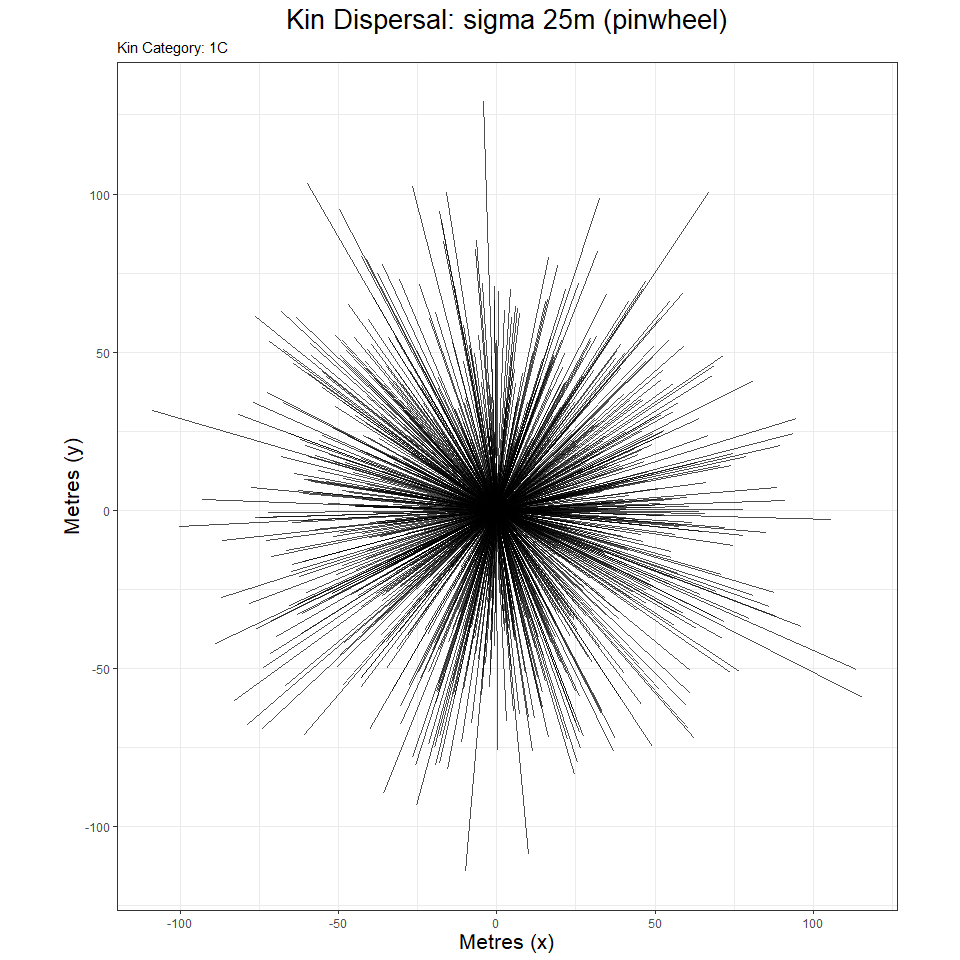
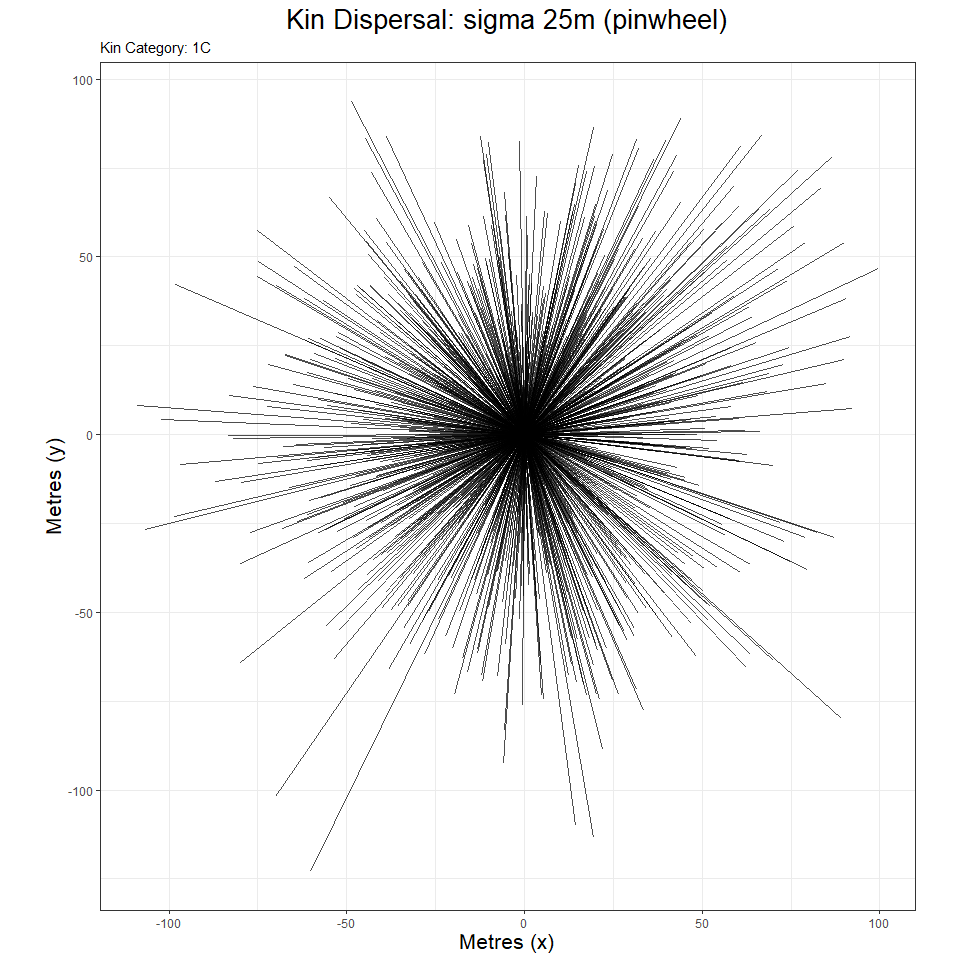
Updated app tutorial and documentation

diff --git a/README.md b/README.md
@@ -3,7 +3,7 @@
 
 # kindisperse
 
-v0.8.0 <!-- badges: start --> <!-- badges: end -->
+v0.8.2 <!-- badges: start --> <!-- badges: end -->
 
 The goal of kindisperse is to simulate and estimate close-kin dispersal
 kernels.
@@ -153,7 +153,7 @@ Once installed, load the package as follows:
 
 ``` r
 library(kindisperse)
-#> kindisperse 0.7.7
+#> kindisperse 0.8.2
 ```
 
 ## Simulations and Sampling
@@ -242,13 +242,13 @@ simulate_kindist_simple(nsims = 5, sigma = 100, method = "Gaussian", kinship = "
 #> 
 #> tab
 #> # A tibble: 5 x 8
-#>   id1   id2   kinship distance    x1    y1    x2     y2
-#>   <chr> <chr> <chr>      <dbl> <dbl> <dbl> <dbl>  <dbl>
-#> 1 1a    1b    PO         167.   97.7 91.5  -17.4 -29.2 
-#> 2 2a    2b    PO         215.   67.6 12.4  283.   -2.97
-#> 3 3a    3b    PO         174.   27.8 75.6  201.   61.8 
-#> 4 4a    4b    PO          60.9  40.0  8.28  97.9  27.4 
-#> 5 5a    5b    PO         187.   98.3 62.4   67.6 247.  
+#>   id1   id2   kinship distance    x1    y1     x2      y2
+#>   <chr> <chr> <chr>      <dbl> <dbl> <dbl>  <dbl>   <dbl>
+#> 1 1a    1b    PO          62.4  15.0  32.0   64.8   -5.62
+#> 2 2a    2b    PO         184.   69.9  23.9  145.  -144.  
+#> 3 3a    3b    PO         128.   63.4  92.8  -29.9    5.46
+#> 4 4a    4b    PO         213.   26.3  17.7 -186.    37.7 
+#> 5 5a    5b    PO         137.   76.9  68.6  214.    66.0 
 #> -----------------------------------
 ```
 
@@ -294,13 +294,13 @@ simulate_kindist_composite(nsims = 5, initsigma = 50, breedsigma = 30, gravsigma
 #> 
 #> tab
 #> # A tibble: 5 x 8
-#>   id1   id2   kinship distance    x1     y1     x2    y2
-#>   <chr> <chr> <chr>      <dbl> <dbl>  <dbl>  <dbl> <dbl>
-#> 1 1a    1b    H1C         131.  73.3  131.   -24.2  43.8
-#> 2 2a    2b    H1C         552. 224.   -56.5 -181.  319. 
-#> 3 3a    3b    H1C         407. 276.   232.  -128.  180. 
-#> 4 4a    4b    H1C         167. 211.    40.7  104.  -86.3
-#> 5 5a    5b    H1C         240. 150.  -151.   -84.0 -98.4
+#>   id1   id2   kinship distance     x1     y1     x2     y2
+#>   <chr> <chr> <chr>      <dbl>  <dbl>  <dbl>  <dbl>  <dbl>
+#> 1 1a    1b    H1C        281.  198.    -94.2  -80.7  -63.4
+#> 2 2a    2b    H1C         75.6 -70.6  -140.  -137.  -103. 
+#> 3 3a    3b    H1C         97.4   5.46   47.3   66.9  -28.3
+#> 4 4a    4b    H1C         57.4  81.3   129.    28.6  151. 
+#> 5 5a    5b    H1C        270.  199.    132.   -52.2   31.9
 #> -----------------------------------
 ```
 
@@ -342,18 +342,18 @@ sample_kindist(compsim, upper = 1000, lower = 200, spacing = 50, n = 25)
 #> 
 #> tab
 #> # A tibble: 25 x 8
-#>    id1    id2    kinship distance     x1      y1     x2     y2
-#>    <chr>  <chr>  <chr>      <dbl>  <dbl>   <dbl>  <dbl>  <dbl>
-#>  1 60421a 60421b H2C          475 -121.   -39.8   370.  -118. 
-#>  2 98769a 98769b H2C          275  371.   -66.7   116.    71.9
-#>  3 84467a 84467b H2C          575 -225.   155.    240.  -166. 
-#>  4 4268a  4268b  H2C          475   53.2  -30.1   -11.0  424. 
-#>  5 91917a 91917b H2C          425  228.  -247.   -109.    16.2
-#>  6 92904a 92904b H2C          925  163.  -499.   -239.   331. 
-#>  7 82235a 82235b H2C          325 -335.  -126.    -33.2  -15.9
-#>  8 4913a  4913b  H2C          525  425.     3.96  -31.8  210. 
-#>  9 22569a 22569b H2C          575  -28.0  -19.5   483.   261. 
-#> 10 24818a 24818b H2C          225   31.6  -49.4   -79.6 -239. 
+#>    id1    id2    kinship distance    x1     y1     x2     y2
+#>    <chr>  <chr>  <chr>      <dbl> <dbl>  <dbl>  <dbl>  <dbl>
+#>  1 12222a 12222b H2C          275 132.   168.   278.   -63.6
+#>  2 22844a 22844b H2C          725  77.7 -293.  -147.   411. 
+#>  3 64939a 64939b H2C          325 285.   -44.7   81.6  204. 
+#>  4 86823a 86823b H2C          525 310.   201.    33.3 -244. 
+#>  5 94736a 94736b H2C          475  37.3  -77.6  226.   365. 
+#>  6 25528a 25528b H2C          325 265.   -12.8  349.   289. 
+#>  7 42812a 42812b H2C          225 -29.1 -139.    26.9   98.3
+#>  8 71730a 71730b H2C          825 337.   374.  -500.   292. 
+#>  9 4369a  4369b  H2C          675 381.   322.   -91.9 -134. 
+#> 10 40722a 40722b H2C          275 -50.5   41.6 -229.   251. 
 #> # ... with 15 more rows
 #> -----------------------------------
 ```
@@ -448,13 +448,13 @@ of three draws from the PO distribution, and thus would take
 ``` r
 paroff <- simulate_kindist_simple(nsims = 1000, sigma = 75, kinship = "PO")
 axials(paroff)
-#> [1] 73.55289
+#> [1] 76.03686
 ```
 
 ``` r
 fullsibs <- simulate_kindist_composite(nsims = 10000, ovisigma = 25, kinship = "FS")
 axials(fullsibs, composite = 2)
-#> [1] 24.94379
+#> [1] 24.88813
 ```
 
 Various auxillary functions exist to further manipulate axial distances
@@ -537,7 +537,7 @@ fullcous <- simulate_kindist_composite(nsims = 75, initsigma = init, breedsigma 
 
 axpermute_standard(fullcous, fullsibs)
 #>      2.5%       50%     97.5% 
-#>  84.85302  94.70991 104.30832
+#>  89.93076 100.27790 111.04962
 ```
 
 As we can see, the C.I. neatly brackets the actual axial value, though
@@ -566,18 +566,18 @@ cousins
 #> 
 #> tab
 #> # A tibble: 150 x 9
-#>    id1   id2   kinship distance    x1     y1     x2     y2 lifestage
-#>    <chr> <chr> <chr>      <dbl> <dbl>  <dbl>  <dbl>  <dbl> <chr>    
-#>  1 1a    1b    UN         148.  -26.9   70.3  -4.32  216.  larva    
-#>  2 2a    2b    UN         249.  184.   112.  -64.3   110.  larva    
-#>  3 3a    3b    UN         277.  152.   119.  -14.1  -104.  larva    
-#>  4 4a    4b    UN         193.   90.4   73.0 -99.5    40.4 larva    
-#>  5 5a    5b    UN         149.   87.8 -144.  159.    -13.3 larva    
-#>  6 6a    6b    UN         238.  -70.2  -19.4 162.    -72.9 larva    
-#>  7 7a    7b    UN         142.  126.   -50.8 -11.1   -16.2 larva    
-#>  8 8a    8b    UN         149.   45.3   75.9  45.8   -73.4 larva    
-#>  9 9a    9b    UN          56.3 180.   137.  130.    165.  larva    
-#> 10 10a   10b   UN         332.   33.7  238.    8.65  -92.1 larva    
+#>    id1   id2   kinship distance     x1     y1     x2     y2 lifestage
+#>    <chr> <chr> <chr>      <dbl>  <dbl>  <dbl>  <dbl>  <dbl> <chr>    
+#>  1 1a    1b    UN         349.   203.   -51.2 -99.6   124.  larva    
+#>  2 2a    2b    UN         139.   101.    13.3  -3.77  104.  larva    
+#>  3 3a    3b    UN          91.7   29.2  132.  -62.3   138.  larva    
+#>  4 4a    4b    UN         151.   -14.6   81.8 109.    169.  larva    
+#>  5 5a    5b    UN         233.  -140.    94.8  92.5    98.9 larva    
+#>  6 6a    6b    UN         179.   125.   151.  129.    -27.5 larva    
+#>  7 7a    7b    UN         130.    11.5  -25.8 -29.1    97.9 larva    
+#>  8 8a    8b    UN         269.    93.6 -121.  129.    146.  larva    
+#>  9 9a    9b    UN         258.   101.   -91.3 256.    115.  larva    
+#> 10 10a   10b   UN         177.    47.0   40.7  -8.89 -127.  larva    
 #> # ... with 140 more rows
 #> -------------------------------
 ```
@@ -592,8 +592,8 @@ missing category data:
 # bcomp allows supply of distribution to composite with bvect (this is done to match 
 # the cousin mixture in phase)
 axpermute_standard(avect = cousins, acat = "1C", amix = TRUE, amixcat = "H1C", bvect = fullsibs, bcomp = TRUE, bcompvect = halfsibs)
-#>     2.5%      50%    97.5% 
-#> 76.53586 87.78226 99.64765
+#>      2.5%       50%     97.5% 
+#>  84.36374  96.86139 108.85467
 ```
 
 This estimate is a lot more convoluted, and not as ‘spot on’- but the
